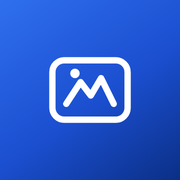
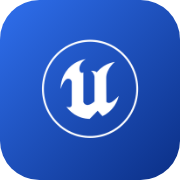
feat(plugin): 官方式 UE 图标 + 市场截图
- 设置页标题用纯色简笔 UE 环 U（CSS mask + currentColor，跟随主题）
- 插件/市场图标换成蓝渐变圆角 + 白色 U（plugin/icon.svg 与 assets/icon-180.png）
- 新增 plugin/screenshots.json 与六张真实界面截图（真实组件 + 真机 b1 数据离屏渲染）
- PAK 选择页标题在主目录为空时不再显示多余分隔符

diff --git a/plugin/client.js b/plugin/client.js
@@ -171,6 +171,9 @@ window.__ModuleLoader__.load({
       return { toast, push };
     }
 
+    // Unreal Engine mark (monochrome mask, tinted with currentColor)
[1 lines of base64/hex data omitted]
+
     const CSS = `
       .ue-root { display:flex; flex-direction:column; height:100%; min-height:0; color:var(--dsw-alias-label-primary); font-size:12px; background:var(--dsw-alias-bg-base); }
       .ue-pane { flex:1; min-height:0; display:flex; flex-direction:column; overflow:auto; }
@@ -253,6 +256,7 @@ window.__ModuleLoader__.load({
       .ue-lp { display:flex; flex-direction:column; flex:1; min-height:0; }
       .ue-lp-head { display:flex; align-items:center; gap:6px; padding:8px 8px 6px; flex:none; font-size:11px; color:var(--dsw-alias-label-secondary); }
       .ue-lp-title { flex:1; min-width:0; font-weight:600; color:var(--dsw-alias-label-primary); overflow:hidden; text-overflow:ellipsis; white-space:nowrap; }
+      .ue-ue-mark { display:inline-block; width:15px; height:15px; flex:none; margin-right:6px; vertical-align:-3px; background:currentColor; -webkit-mask:url('${UE_MARK}') center/contain no-repeat; mask:url('${UE_MARK}') center/contain no-repeat; opacity:.9; }
       .ue-lp-body { flex:1; min-height:0; overflow:auto; padding:0 8px 8px; }
       .ue-lp-sec { font-size:10px; color:var(--dsw-alias-label-secondary); margin:4px 0 6px; letter-spacing:.04em; }
       .ue-sess { display:flex; align-items:center; gap:8px; padding:6px 8px; border:1px solid var(--dsw-alias-border-l1); border-radius:8px; margin-bottom:6px; background:var(--dsw-alias-bg-layer-1); }
@@ -1325,7 +1329,7 @@ window.__ModuleLoader__.load({
         ? h('div', { className: 'ue-lp' },
             h('div', { className: 'ue-lp-head' },
               h(GameBadge, { src: icons[activeProfile], name: activeProfile }),
-              h('div', { className: 'ue-lp-title', title: activeProfile }, activeProfile + ' · ' + tailDir(pakCatalog.paksDirectory)),
+              h('div', { className: 'ue-lp-title', title: (activeProfile || '') + (pakCatalog.paksDirectory ? ' · ' + pakCatalog.paksDirectory : '') }, activeProfile + (tailDir(pakCatalog.paksDirectory) ? ' · ' + tailDir(pakCatalog.paksDirectory) : '')),
               h('button', { className: 'ue-btn', onClick: () => { setPakCatalog(null); setActiveProfile(null); setPakQuery('') } }, t('back'))
             ),
             h('div', { className: 'ue-lp-body' },
@@ -1638,7 +1642,7 @@ window.__ModuleLoader__.load({
 
       return h('div', { className: 'ue-root' },
         h('div', { className: 'ue-section' },
-          h('h4', null, t('settings')),
+          h('h4', { style: { display: 'flex', alignItems: 'center' } }, h('span', { className: 'ue-ue-mark', 'aria-hidden': 'true' }), t('settings')),
           h('div', { className: 'ue-hint' }, '配置文件：' + (config.configPath || '')),
           h('div', { style: { display: 'flex', gap: 6, flexWrap: 'wrap', marginTop: 8 } },
             h('button', { className: 'ue-btn', onClick: () => { setOriginalName(null); setAesKey(''); setDraft({ name: '', directory: '', extraDirectories: '', game: 'GAME_UE5_0', platform: 'DesktopMobile', usmap: '', aesKey: '', clearAesKey: false, hasAesKey: false, prefixRules: [] }) } }, t('newGame')),
